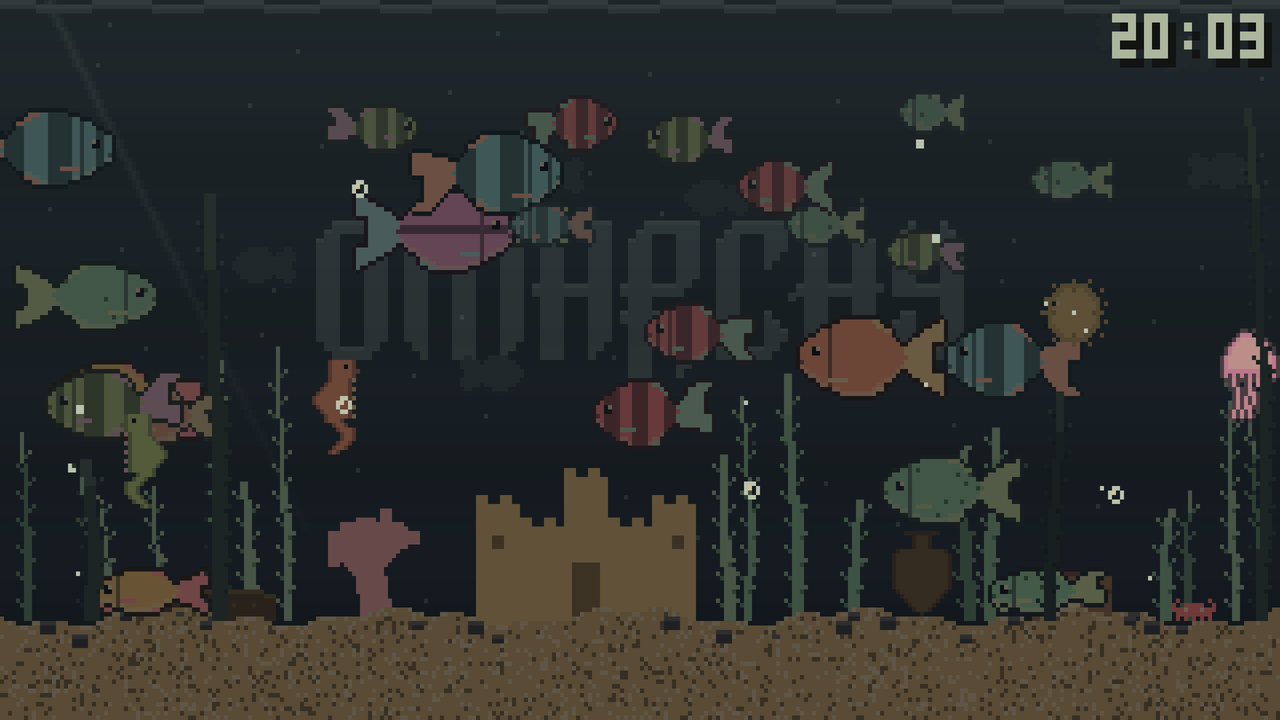
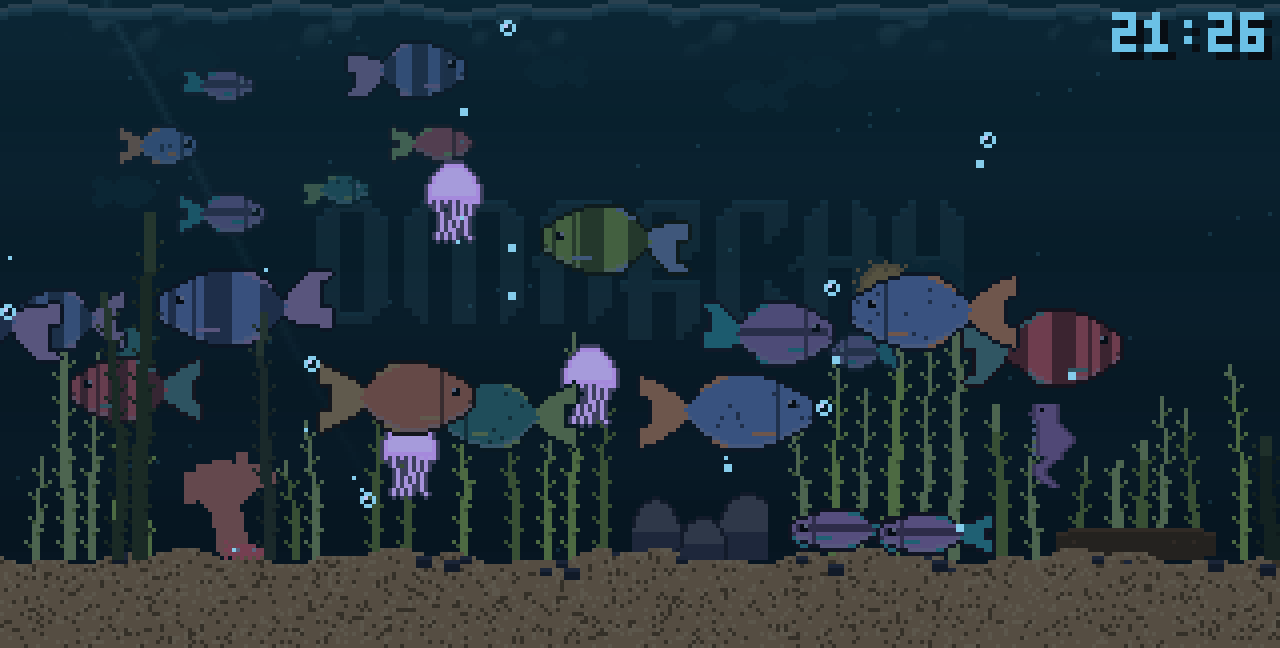
Version 1.6.0, and keep the manifest with the tags
The manifest still said 1.4.0 while the releases were at 1.5.2 -- it is
what the shell reports, so a check now fails if it falls behind the newest
tag. night.png is redrawn with the new surface.

diff --git a/tools/test.py b/tools/test.py
@@ -605,6 +605,19 @@ check("the entry point exists", entry and os.path.exists(os.path.join(ROOT, entr
 with open(os.path.join(ROOT, manifest["entryPoints"]["service"]), encoding="utf-8") as fh:
     service = fh.read()
 check("the service answers to the plugin id", manifest["id"] in service)
+
+# The manifest version drifted behind the releases once; it is what the shell
+# reports, so it must never be older than the newest tag.
+tags = subprocess.run(["git", "-C", ROOT, "tag", "--list", "v*"],
+                      capture_output=True, text=True)
+if tags.returncode == 0 and tags.stdout.strip():
+    def parts(text):
+        return tuple(int(n) for n in text.lstrip("v").split(".")[:3])
+    newest = max(parts(t) for t in tags.stdout.split())
+    check("the manifest version keeps up with the tags",
+          parts(manifest["version"]) >= newest,
+          "manifest %s, newest tag v%s" % (manifest["version"],
+                                           ".".join(str(n) for n in newest)))
 for call in ("function open()", "function feed()", "function stop()"):
     check("the service offers %s" % call.split()[1], call in service)
 
